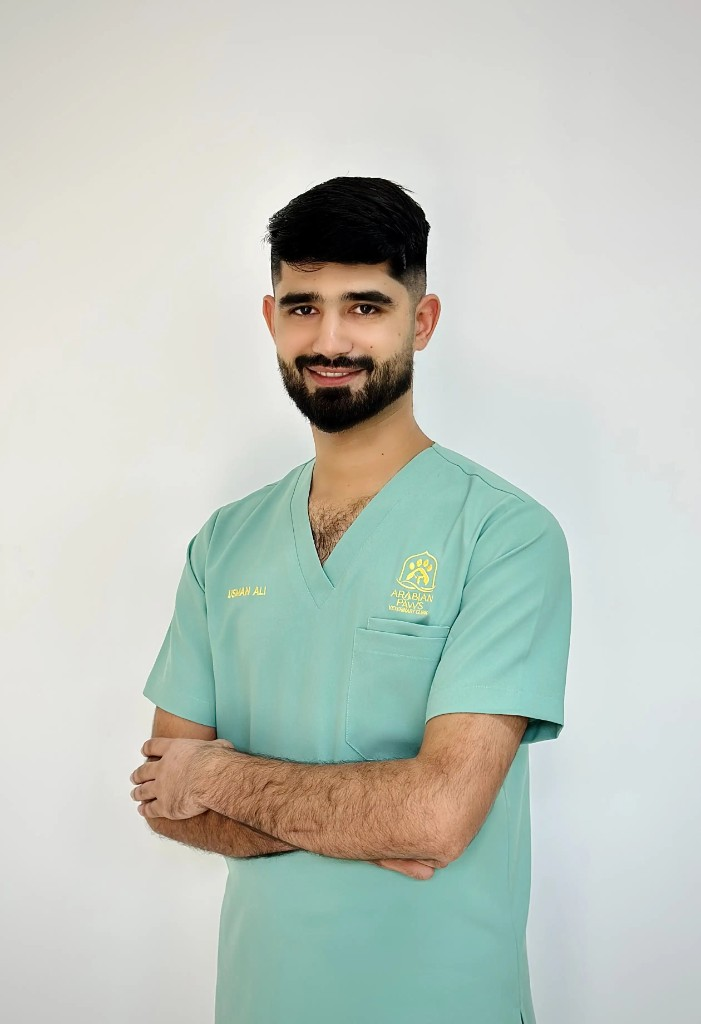
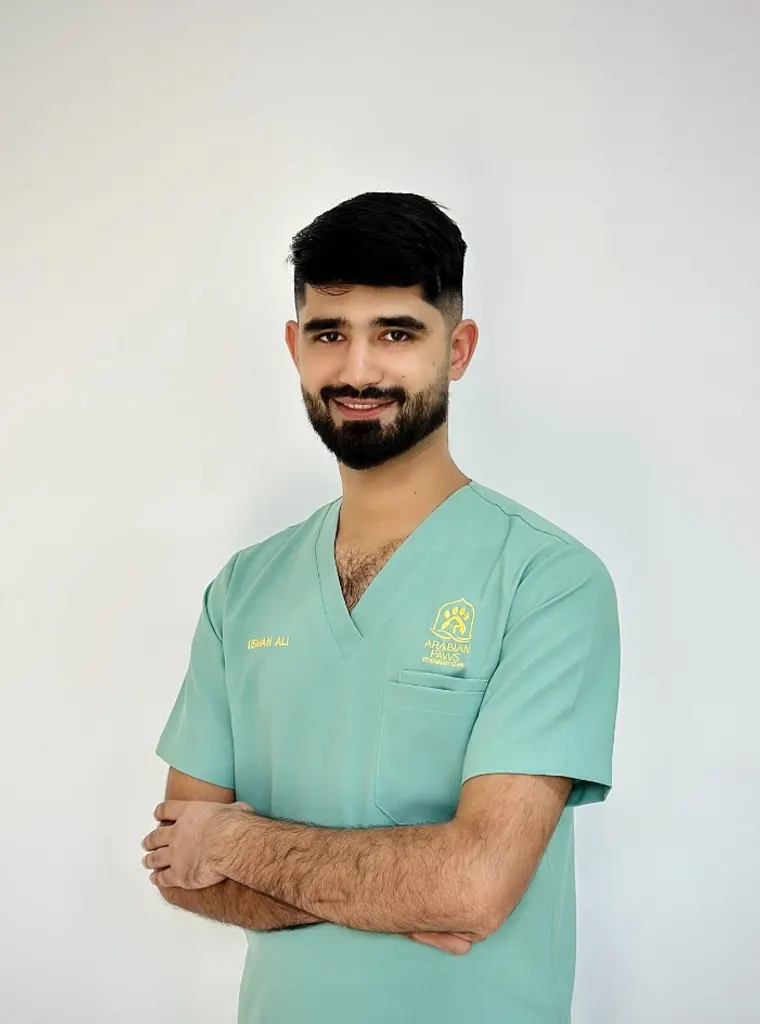
changes
teams

Changed region(s): [[0.1797, 0.1562, 0.8388, 1.0], [0.7489, 0.875, 0.7789, 0.9375], [0.7489, 0.9688, 0.7789, 1.0]]

diff --git a/src/components/vets.tsx b/src/components/vets.tsx
@@ -13,6 +13,36 @@ const vets = [
     experience: "5 Years Of Experience",
     image: "/images/vet-mohsin.webp",
   },
+  {
+    name: "Krishna",
+    role: "Nurse Assistant",
+    experience: "2 Years Of Experience",
+    image: "/images/vet-krishna.webp",
+  },
+  {
+    name: "Dr Hasnain",
+    role: "Veterinary Doctor",
+    experience: "5 Years Of Experience",
+    image: "/images/vet-hasnain.webp",
+  },
+  {
+    name: "Josephine",
+    role: "Groomer",
+    experience: "5 Years Of Experience",
+    image: "/images/vet-josephine.webp",
+  },
+  {
+    name: "Dr Imran",
+    role: "Veterinary Surgeon",
+    experience: "7 Years Of Experience",
+    image: "/images/vet-imran.webp",
+  },
+  {
+    name: "Usman Ali",
+    role: "Veterinary Nurse",
+    experience: "3 Years Of Experience",
+    image: "/images/vet-usman.webp",
+  },
 ];
 
 export function Vets({ showCta = true }: { showCta?: boolean }) {
@@ -25,11 +55,11 @@ export function Vets({ showCta = true }: { showCta?: boolean }) {
         <h2 className="mb-8 text-center font-display text-[36px] uppercase leading-[34px] text-olive">
           Meet Our Team
         </h2>
-        <div className="mx-auto grid max-w-[860px] items-start gap-6 sm:grid-cols-2">
+        <div className="mx-auto flex max-w-[1100px] flex-wrap justify-center gap-6">
           {vets.map((vet) => (
             <article
               key={vet.name}
-              className="group relative h-[488px] overflow-hidden rounded-[24px] bg-cream transition-transform duration-500 hover:-translate-y-2"
+              className="group relative h-[420px] w-full overflow-hidden rounded-[24px] bg-cream transition-transform duration-500 hover:-translate-y-2 sm:h-[488px] sm:w-[calc(50%-12px)] lg:w-[calc(33.333%-16px)]"
             >
               <img
                 src={vet.image}
@@ -55,19 +85,19 @@ export function Vets({ showCta = true }: { showCta?: boolean }) {
           ))}
         </div>
         {showCta ? (
-          <div className="mx-auto mt-10 flex max-w-[860px] flex-col items-start justify-between gap-6 md:flex-row md:items-center">
-            <p className="max-w-[480px] text-[22px] leading-[24px] text-olive">
-              Our founding team brings together veterinary and administrative expertise, with years
-              of experience working in professional veterinary environments.
+          <div className="mx-auto mt-10 flex max-w-[1100px] flex-col items-start justify-between gap-6 md:flex-row md:items-center">
+            <p className="max-w-[560px] text-[22px] leading-[24px] text-olive">
+              Our team brings together veterinary, nursing, grooming and administrative expertise,
+              with years of experience in professional veterinary care.
             </p>
             <PillButton href="/our-vets" variant="olive" className="w-[200px] px-0">
               Meet Our Team
             </PillButton>
           </div>
         ) : (
-          <p className="mx-auto mt-10 max-w-[640px] text-center text-[22px] leading-[24px] text-olive">
-            Our founding team brings together veterinary and administrative expertise, with years of
-            experience working in professional veterinary environments.
+          <p className="mx-auto mt-10 max-w-[720px] text-center text-[22px] leading-[24px] text-olive">
+            Our team brings together veterinary, nursing, grooming and administrative expertise, with
+            years of experience in professional veterinary care.
           </p>
         )}
       </Frame>

diff --git a/src/app/our-vets/page.tsx b/src/app/our-vets/page.tsx
@@ -5,7 +5,7 @@ import { Reveal } from "@/components/reveal";
 export const metadata = {
   title: "Our Vets | Arabian Paws",
   description:
-    "Meet the founding team behind Arabian Paws — veterinary, nursing and administrative expertise with years of professional experience.",
+    "Meet the Arabian Paws team — veterinary surgeons, nurses, grooming and clinic leadership with years of professional experience.",
 };
 
 export default function OurVetsPage() {
